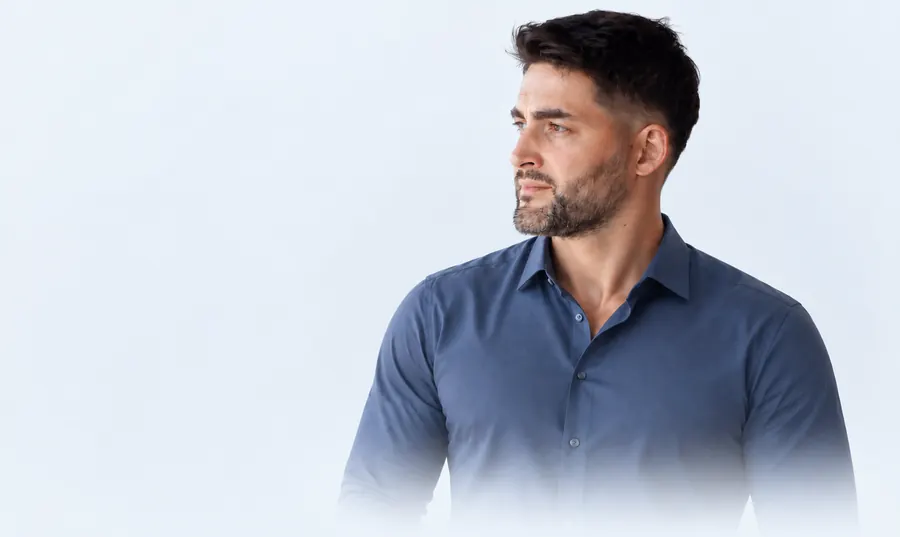
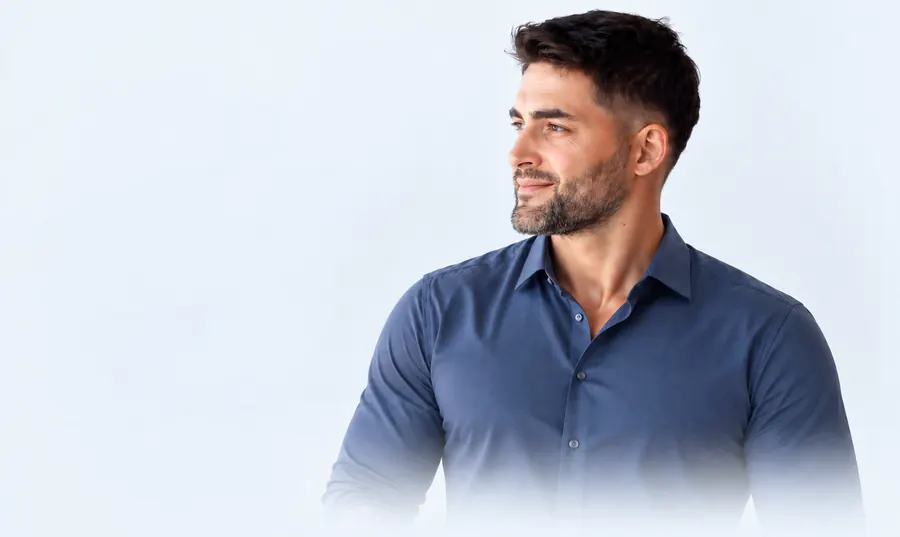
Nowe zdjecie na stronie glownej; zdjecie w sekcji O mnie miesci sie w calosci w ramce

diff --git a/lib/content.ts b/lib/content.ts
@@ -35,7 +35,7 @@ export type Viz =
   | { type: "alert"; title: string; text: string; meta: string; action: string }
   | { type: "call"; title: string; lines: { who: "in" | "out"; t: string }[]; ticket: string }
   | { type: "progress"; title: string; rows: { t: string; p: number }[]; gate: string }
-  | { type: "photo"; src: string; alt: string };
+  | { type: "photo"; src: string; alt: string; contain?: boolean };
 
 type Link = { href: string; label: string };
 export type Card = { icon: IconName; tag: string; h: string; p: string; check?: string; links?: Link[]; viz: Viz };
@@ -71,7 +71,7 @@ const pl = {
     title: "Tworzę treści i wdrażam AI, które oszczędza firmom czas",
     lead: "Prowadzę kanały od pomysłu do publikacji i buduję automatyzacje oraz agentów AI, którzy zdejmują z zespołu powtarzalną robotę.",
     facts: ["17 lat przed kamerą", "Certyfikat Google & SGH", "Współtwórca Asistel"],
-    photoAlt: "Maciej V. Sufa w granatowej koszuli",
+    photoAlt: "Uśmiechnięty Maciej V. Sufa w niebieskiej koszuli",
   },
   coRobie: {
     kicker: "01",
@@ -411,7 +411,7 @@ const pl = {
         h: "Maciej V. Sufa",
         p: "Content creator i specjalista od AI dla firm. Mieszkam w Łodzi, pracuję zdalnie z klientami z Polski i UE.",
         check: "Certyfikat Google & SGH",
-        viz: { type: "photo", src: "/photos/maciej-swiatlo.webp", alt: "Maciej V. Sufa uśmiecha się, trzymając dwie lampy LED przy twarzy" },
+        viz: { type: "photo", src: "/photos/maciej-swiatlo.webp", alt: "Maciej V. Sufa uśmiecha się, trzymając dwie lampy LED przy twarzy", contain: true },
       },
       {
         icon: "film",
@@ -501,7 +501,7 @@ const en: typeof pl = {
     title: "I create content and deploy AI that saves companies time",
     lead: "I run channels from idea to publication and build automations and AI agents that take repetitive work off your team.",
     facts: ["17 years on camera", "Google & SGH certificate", "Co-creator of Asistel"],
-    photoAlt: "Maciej V. Sufa in a navy shirt",
+    photoAlt: "Smiling Maciej V. Sufa in a blue shirt",
   },
   coRobie: {
     kicker: "01",
@@ -841,7 +841,7 @@ const en: typeof pl = {
         h: "Maciej V. Sufa",
         p: "Content creator and AI specialist for business. Based in Łódź, working remotely with clients from Poland and the EU.",
         check: "Google & SGH certificate",
-        viz: { type: "photo", src: "/photos/maciej-swiatlo.webp", alt: "Maciej V. Sufa smiling, holding two LED light tubes beside his face" },
+        viz: { type: "photo", src: "/photos/maciej-swiatlo.webp", alt: "Maciej V. Sufa smiling, holding two LED light tubes beside his face", contain: true },
       },
       {
         icon: "film",

diff --git a/app/globals.css b/app/globals.css
@@ -719,6 +719,28 @@ html:not(.story-on) .scene {
   transform-origin: 50% 0%;
   transition: transform 1.6s var(--ease-spring);
 }
+.tile-visual.is-contain img:not(.photo-fill) {
+  position: absolute;
+  inset: 0;
+  margin: auto;
+  width: auto;
+  height: auto;
+  max-width: 88%;
+  max-height: 88%;
+  border-radius: 18px;
+  object-fit: fill;
+  transform: scale(0.94);
+  transform-origin: 50% 50%;
+}
+.tile-visual.is-contain img.photo-fill {
+  inset: -48px;
+  width: calc(100% + 96px);
+  height: calc(100% + 96px);
+  object-fit: cover;
+  filter: blur(36px) saturate(1.2);
+  opacity: 0.85;
+  transition: transform 1.6s var(--ease-spring);
+}
 .ghost {
   position: absolute;
   border-radius: 18px;
@@ -1263,6 +1285,12 @@ html:not(.story-on) .scene {
 }
 :is(.scene[data-state="active"] .scene-item[data-state="active"], html:not(.story-on) .scene-item) .tile-visual.is-photo img {
   transform: scale(1);
+}
+:is(.scene[data-state="active"] .scene-item[data-state="active"], html:not(.story-on) .scene-item) .tile-visual.is-contain img:not(.photo-fill) {
+  transform: scale(1);
+}
+.tile-visual.is-contain img:not(.photo-fill) {
+  box-shadow: 0 30px 60px -24px rgba(20, 10, 40, 0.45);
 }
 
 /* ============================================================

diff --git a/components/viz/viz.tsx b/components/viz/viz.tsx
@@ -276,9 +276,13 @@ export function VizBody({ v }: { v: VizData }) {
 export function VizPanel({ v, sample, tint = 0 }: { v: VizData; sample: string; tint?: number }) {
   if (v.type === "photo") {
     return (
-      <div className="tile-visual is-photo">
+      <div className={`tile-visual is-photo${v.contain ? " is-contain" : ""}`}>
+        {v.contain && (
+          // eslint-disable-next-line @next/next/no-img-element -- rozmyte tło pod zdjęciem
+          <img className="photo-fill" src={v.src} alt="" aria-hidden="true" loading="lazy" decoding="async" />
+        )}
         {/* eslint-disable-next-line @next/next/no-img-element -- statyczny eksport, plik już zoptymalizowany */}
-        <img src={v.src} alt={v.alt} width={640} height={640} loading="lazy" decoding="async" />
+        <img src={v.src} alt={v.alt} width={v.contain ? 800 : 640} height={v.contain ? 703 : 640} loading="lazy" decoding="async" />
       </div>
     );
   }
